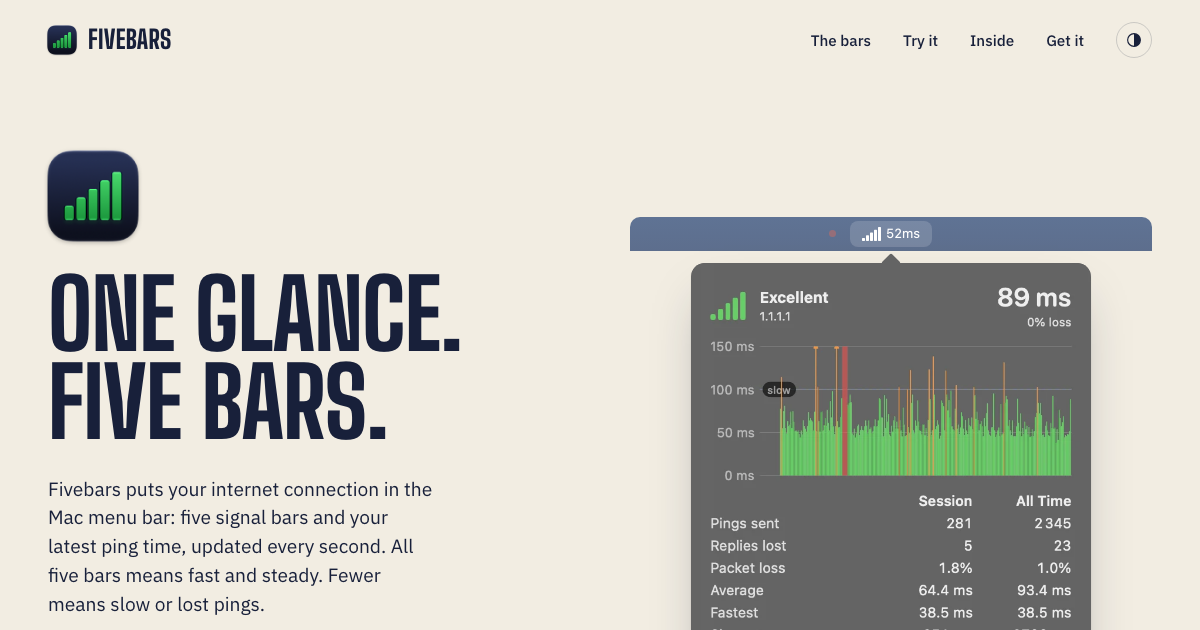
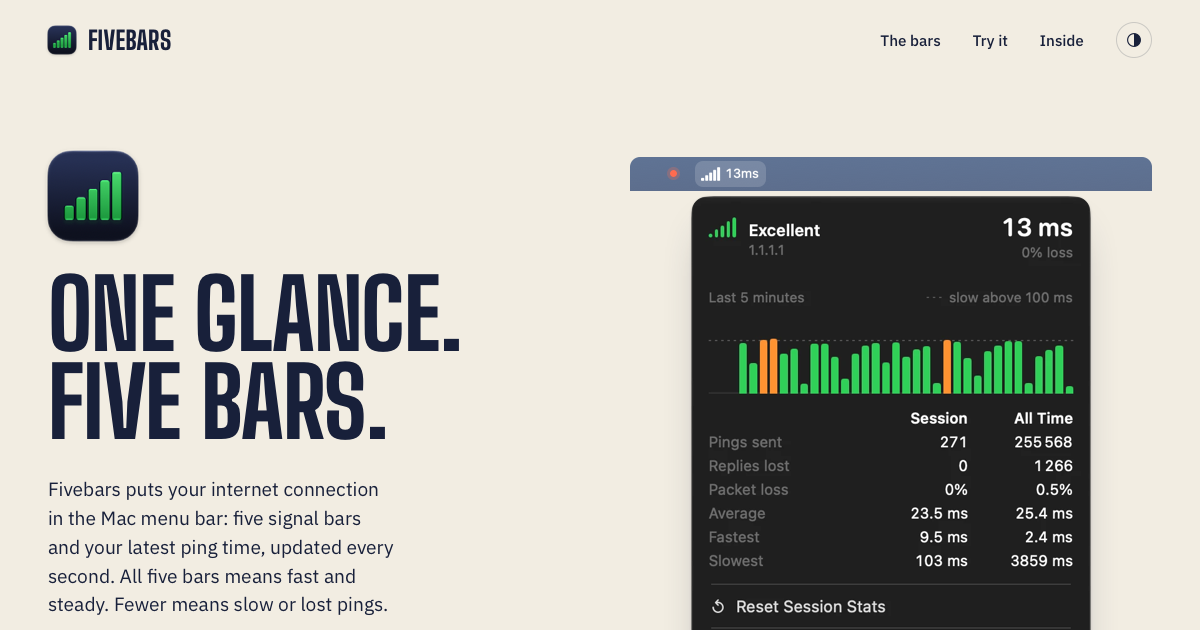
Refresh the site and README for 1.1.0

diff --git a/site/index.html b/site/index.html
@@ -1,18 +1,10 @@
 <!doctype html>
-<!--
-  PRODUCT NAME: one token.
-  The name lives in data-product-name on <html> below. assets/site.js copies it into every
-  element marked data-product, into <title>, into meta[name=description] (from its
-  data-template, where {name} is replaced) and into aria-labels marked data-product-aria.
-  The literal text in the markup is only the no-JS fallback; to rename everywhere, also run:
-    sed -i '' 's/Fivebars/NewName/g' site/index.html
--->
-<html lang="en" data-product-name="Fivebars">
+<html lang="en">
 <head>
 <meta charset="utf-8">
 <meta name="viewport" content="width=device-width, initial-scale=1">
-<title data-template="{name}: Mac menu bar ping and network monitor">Fivebars: Mac menu bar ping and network monitor</title>
-<meta name="description" content="Fivebars is a macOS menu bar network monitor. It pings once a second and shows your connection as five signal bars and your latest ping time." data-template="{name} is a macOS menu bar network monitor. It pings once a second and shows your connection as five signal bars and your latest ping time.">
+<title>Fivebars: Mac menu bar ping and network monitor</title>
+<meta name="description" content="Fivebars is a macOS menu bar network monitor. It pings once a second and shows your connection as five signal bars and your latest ping time.">
 <meta name="color-scheme" content="light dark">
 <link rel="canonical" href="https://callingcodes.com/fivebars/">
 <meta property="og:type" content="website">
@@ -67,9 +59,9 @@
 <a class="skip" href="#main">Skip to content</a>
 
 <header class="top wrap">
-  <a class="wordmark" href="#top" aria-label="Fivebars, home" data-product-aria="{name}, home">
+  <a class="wordmark" href="#top" aria-label="Fivebars, home">
     <img class="mark" src="assets/icon-64.png" srcset="assets/icon-64.png 1x, assets/icon-128.png 2x" width="36" height="36" alt="">
-    <span data-product>Fivebars</span>
+    Fivebars
   </a>
   <nav class="nav" aria-label="Primary">
     <a href="#bars">The bars</a>
@@ -86,7 +78,7 @@
   <div class="hero-copy">
     <img class="app-icon" src="assets/icon-128.png" srcset="assets/icon-128.png 1x, assets/icon-256.png 2x" width="112" height="112" alt="Fivebars app icon">
     <h1>One glance.<br>Five bars.</h1>
-    <p class="lede"><span data-product>Fivebars</span> puts your internet connection in the Mac menu bar: five signal bars and your latest ping time, updated every second. All five bars means fast and steady. Fewer means slow or lost pings.</p>
+    <p class="lede">Fivebars puts your internet connection in the Mac menu bar: five signal bars and your latest ping time, updated every second. All five bars means fast and steady. Fewer means slow or lost pings.</p>
     <p class="lineage">A&nbsp;native Mac app, about 4&nbsp;MB to download. No&nbsp;account, no&nbsp;tracking. It pings one host you choose and checks for&nbsp;updates once a&nbsp;day.</p>
     <div class="ctas">
       <a class="btn primary" href="https://callingcodes.com/fivebars/download/latest">Download</a>
@@ -98,16 +90,16 @@
     </ul>
   </div>
 
-  <figure class="stage" aria-label="Fivebars in the menu bar with its panel open" data-product-aria="{name} in the menu bar with its panel open">
+  <figure class="stage" aria-label="Fivebars in the menu bar with its menu open">
     <div class="menubar">
       <span class="tempo" aria-hidden="true"></span>
-      <span class="pill" tabindex="0" aria-describedby="pill-tip"><img src="assets/menubar.png" width="70" height="20" alt="Menu bar item: five bars and 52ms"><span class="tip" id="pill-tip" role="tooltip">Latest Ping Time: 52ms
+      <span class="pill" tabindex="0" aria-describedby="pill-tip"><img src="assets/menubar.png" width="59" height="20" alt="Menu bar item: five bars and 13ms"><span class="tip" id="pill-tip" role="tooltip">Latest Ping Time: 13ms
 Recent Packet Loss: 0%</span></span>
     </div>
     <div class="popover">
-      <img src="assets/popover.webp" width="682" height="770" alt="The Fivebars panel: five green bars, Excellent, host 1.1.1.1, 89 ms and 0% loss, then five minutes of ping times, mostly green with a few orange slow pings and one red lost ping, and statistics for this session and all time" fetchpriority="high">
+      <img src="assets/popover.webp" width="640" height="926" alt="The Fivebars menu: five green bars, Excellent, host 1.1.1.1, the latest ping time and packet loss, five minutes of ping times as green bars with a few orange slow ones, statistics for this session and all time, then Reset Session Stats, Check for Updates, Settings, About and Quit" fetchpriority="high">
     </div>
-    <figcaption>Real captures from the app. Click the bars to open this panel; hover them for a&nbsp;quick readout.</figcaption>
+    <figcaption>Real captures from the app. Click the bars to open this menu; hover them for a&nbsp;quick readout.</figcaption>
   </figure>
 </section>
 
@@ -125,7 +117,7 @@ Recent Packet Loss: 0%</span></span>
 <section class="ladder-section wrap" id="bars">
   <div class="ladder-intro">
     <h2>Read it like your phone.</h2>
-    <p>More bars, better connection. <span data-product>Fivebars</span> scores each ping from the last 30 seconds, counts the newest ones most, and turns the result into bars. One lost ping costs you a&nbsp;bar for a&nbsp;few seconds; a&nbsp;dead line shows a&nbsp;warning triangle.</p>
+    <p>More bars, better connection. Fivebars scores each ping from the last 30 seconds, counts the newest ones most, and turns the result into bars. One lost ping costs you a&nbsp;bar for a&nbsp;few seconds; a&nbsp;dead line shows a&nbsp;warning triangle.</p>
   </div>
   <ol class="ladder" aria-label="What each reading means">
     <li data-bars="5"><span class="glyph" aria-hidden="true"><i></i><i></i><i></i><i></i><i></i></span><strong>Excellent</strong><span>Fast replies, nothing missing.</span></li>
@@ -133,19 +125,19 @@ Recent Packet Loss: 0%</span></span>
     <li data-bars="3"><span class="glyph" aria-hidden="true"><i></i><i></i><i></i><i></i><i></i></span><strong>Fair</strong><span>Often slow, or dropping pings.</span></li>
     <li data-bars="2"><span class="glyph" aria-hidden="true"><i></i><i></i><i></i><i></i><i></i></span><strong>Poor</strong><span>Mostly slow, or losing pings regularly.</span></li>
     <li data-bars="1"><span class="glyph" aria-hidden="true"><i></i><i></i><i></i><i></i><i></i></span><strong>Very poor</strong><span>Barely getting through.</span></li>
-    <li data-bars="0" class="down"><span class="glyph" aria-hidden="true"><svg viewBox="0 0 20 18"><path d="M10 1.6 18.6 16.4H1.4z"/><path d="M10 6.6v4.6M10 13.4v.2" class="stroke"/></svg></span><strong>Failed</strong><span>No reply for 8 seconds. It keeps retrying, and the panel says why.</span></li>
+    <li data-bars="0" class="down"><span class="glyph" aria-hidden="true"><svg viewBox="0 0 20 18"><path d="M10 1.6 18.6 16.4H1.4z"/><path d="M10 6.6v4.6M10 13.4v.2" class="stroke"/></svg></span><strong>Failed</strong><span>No reply for 8 seconds. It keeps retrying, and the menu says why.</span></li>
   </ol>
 </section>
 
 <section class="seq-section wrap" id="sequencer">
   <div class="seq-intro">
     <h2>Thirty pings.<br>One groove.</h2>
-    <p>Here are the last 30 pings as a&nbsp;drum machine, oldest first. Click a&nbsp;key to make that ping fast, slow, crawling or lost, and the screen shows the bars <span data-product>Fivebars</span> would draw. Drag the slow ping slider to see how much your threshold forgives. Then press play and listen to your connection.</p>
+    <p>Here are the last 30 pings as a&nbsp;drum machine, oldest first. Click a&nbsp;key to make that ping fast, slow, crawling or lost, and the screen shows the bars Fivebars would draw. Drag the slow ping slider to see how much your threshold forgives. Then press play and listen to your connection.</p>
   </div>
 
   <div class="machine" aria-labelledby="machine-title">
     <div class="machine-top">
-      <p class="machine-title" id="machine-title"><span data-product>Fivebars</span> <span class="model">PS-30</span></p>
+      <p class="machine-title" id="machine-title">Fivebars <span class="model">PS-30</span></p>
       <div class="lcd" aria-live="polite">
         <svg class="lcd-bars" viewBox="0 0 75 60" aria-hidden="true"><rect x="0" y="45" width="11" height="15" rx="1.5"/><rect x="16" y="35" width="11" height="25" rx="1.5"/><rect x="32" y="25" width="11" height="35" rx="1.5"/><rect x="48" y="12" width="11" height="48" rx="1.5"/><rect x="64" y="0" width="11" height="60" rx="1.5"/></svg>
         <div class="lcd-text">
@@ -205,7 +197,7 @@ Recent Packet Loss: 0%</span></span>
     <h2>No dashboard to read.</h2>
     <div class="contrast-text">
       <p>Plenty of network monitors give you graph windows with five time ranges, a&nbsp;list of targets and a&nbsp;jitter chart. They are good at proving an outage after the fact.</p>
-      <p><span data-product>Fivebars</span> answers one question while you work: is my connection good right now? You can read the bars from across the room. The numbers are one click away when you want them.</p>
+      <p>Fivebars answers one question while you work: is my connection good right now? You can read the bars from across the room. The numbers are one click away when you want them.</p>
     </div>
   </div>
 </section>
@@ -214,31 +206,31 @@ Recent Packet Loss: 0%</span></span>
   <h2>Inside</h2>
   <div class="inside-grid">
     <figure class="shot">
-      <img src="assets/popover.webp" width="682" height="770" loading="lazy" alt="The panel: quality word, host, latest ping, a five-minute ping chart with the slow ping threshold marked, and session and all-time statistics with a Reset menu">
+      <img src="assets/popover.webp" width="640" height="926" loading="lazy" alt="The menu: quality word, host, latest ping, a five-minute ping chart with the slow ping threshold marked, session and all-time statistics, and rows for Reset Session Stats, Check for Updates, Settings, About and Quit">
       <figcaption>
-        <h3>The panel</h3>
-        <p>Click the bars for the details: the quality word, the host and its address, the last five minutes of ping times with your slow ping threshold dashed in and lost pings in red, and statistics for this session and all time.</p>
+        <h3>The menu</h3>
+        <p>Click the bars, left or&nbsp;right, for the details: the quality word, the host and its address, the last five minutes of ping times with your slow ping threshold dashed in and lost pings in&nbsp;red, and statistics for this session and all time.</p>
       </figcaption>
     </figure>
     <figure class="shot">
-      <img src="assets/settings.webp" width="880" height="970" loading="lazy" alt="The Fivebars Settings window: host to ping set to 1.1.1.1, slow ping threshold slider at 100 ms, display set to Icon and Text, switches for packet loss text, connection alerts and launch at login, and Restore Default Settings">
+      <img src="assets/settings.webp" width="880" height="1534" loading="lazy" alt="The Fivebars Settings window: host to ping set to 1.1.1.1, ping every 1 second with a stepper, slow ping threshold slider at 100 ms, display set to Icon and Text, packet loss text set to When There&rsquo;s Loss, switches for connection alerts and launch at login, and the update settings">
       <figcaption>
         <h3>Settings</h3>
-        <p>Pick the host to&nbsp;ping and how slow counts as&nbsp;slow (50&nbsp;to 2000&nbsp;ms). Show bars, ping time or&nbsp;both, add packet loss, and turn on&nbsp;connection alerts and launch at&nbsp;login. Right-click the bars to&nbsp;get here.</p>
+        <p>Pick the host to&nbsp;ping, how often (every 1&nbsp;to&nbsp;60&nbsp;seconds) and how slow counts as&nbsp;slow (50&nbsp;to 2000&nbsp;ms). Show bars, ping time or&nbsp;both, packet loss always or&nbsp;only while pings are lost, and turn on&nbsp;connection alerts and launch at&nbsp;login. Choose Settings in&nbsp;the menu to&nbsp;get here.</p>
       </figcaption>
     </figure>
     <figure class="shot shot-down">
-      <span class="failed-pill"><img src="assets/menubar-failed.png" width="67" height="20" loading="lazy" alt="Menu bar item: a warning triangle and Failed"></span>
-      <img src="assets/popover-down.webp" width="682" height="820" loading="lazy" alt="The panel when the connection is down: grey bars, Connection down, Can&rsquo;t find host, a Change Host button and a red Down where the ping time usually is">
+      <span class="failed-pill"><img src="assets/menubar-failed.png" width="60" height="20" loading="lazy" alt="Menu bar item: a warning triangle and Failed"></span>
+      <img src="assets/popover-down.webp" width="640" height="974" loading="lazy" alt="The menu when the connection is down: grey bars, Connection down, Can&rsquo;t find host nas.invalid, a red Down where the ping time usually is, and a Change Host row above the usual ones">
       <figcaption>
         <h3>When it&rsquo;s down</h3>
-        <p>The bars turn into a&nbsp;warning triangle and <code>Failed</code>. Open the panel to&nbsp;see why, here a&nbsp;host that doesn&rsquo;t exist, and fix it with Change Host.</p>
+        <p>The bars turn into a&nbsp;warning triangle and <code>Failed</code>. Open the menu to&nbsp;see why, here a&nbsp;host that doesn&rsquo;t exist, and fix it with Change Host.</p>
       </figcaption>
     </figure>
   </div>
 
   <ul class="features">
-    <li><h3>Says when it&rsquo;s down, and why</h3><p>A&nbsp;warning triangle and <code>Failed</code> when nothing comes back for 8 seconds. The panel names the cause: no network, host not found, or no replies. Optional alerts when it drops and when it&rsquo;s back.</p></li>
+    <li><h3>Says when it&rsquo;s down, and why</h3><p>A&nbsp;warning triangle and <code>Failed</code> when nothing comes back for 8 seconds. The menu names the cause: no network, host not found, or no replies. Optional alerts when it drops and when it&rsquo;s back.</p></li>
     <li><h3>Recovers on its own</h3><p>Starts again after sleep, Wi-Fi switches, VPNs, cable changes and DNS failures, without waiting for a&nbsp;timeout.</p></li>
     <li><h3>Fits your menu bar</h3><p>Matches light and dark menu bars at any scale. The ping always takes four characters, <code>48ms</code> under 100&nbsp;ms and <code>0.4s</code> from there, so the item holds still as the numbers change. Add packet loss for <code>48ms (4%)</code>.</p></li>
     <li><h3>No admin password</h3><p>Plain pings over IPv4 and IPv6, sent without root or a&nbsp;helper tool. Nothing to install but the app.</p></li>
@@ -248,7 +240,7 @@ Recent Packet Loss: 0%</span></span>
 
 <footer class="foot">
   <div class="wrap foot-row">
-    <span class="wordmark small"><svg class="mark" viewBox="0 0 30 24" aria-hidden="true"><rect x="0" y="18" width="4" height="6" rx="1"/><rect x="6.5" y="14" width="4" height="10" rx="1"/><rect x="13" y="10" width="4" height="14" rx="1"/><rect x="19.5" y="5" width="4" height="19" rx="1"/><rect x="26" y="0" width="4" height="24" rx="1"/></svg><span data-product>Fivebars</span></span>
+    <span class="wordmark small"><svg class="mark" viewBox="0 0 30 24" aria-hidden="true"><rect x="0" y="18" width="4" height="6" rx="1"/><rect x="6.5" y="14" width="4" height="10" rx="1"/><rect x="13" y="10" width="4" height="14" rx="1"/><rect x="19.5" y="5" width="4" height="19" rx="1"/><rect x="26" y="0" width="4" height="24" rx="1"/></svg>Fivebars</span>
     <nav class="foot-links" aria-label="Footer">
       <!-- Extensionless links match the canonicals: Cloudflare Workers (html_handling auto-trailing-slash) redirects support.html to support. -->
       <a href="support">Support</a>

diff --git a/site/assets/site.css b/site/assets/site.css
@@ -119,16 +119,15 @@ h1 { font: 800 clamp(3.4rem, 8.6vw, 6rem)/0.92 var(--display); text-transform: u
 .specs li { display: inline-flex; align-items: center; gap: 8px; }
 .specs li::before { content: ""; width: 6px; height: 6px; border-radius: 1px; background: var(--signal); }
 
-/* Stage: menu bar strip with the real popover hanging from it */
-/* One anchor: the stage centre. The pill sits in the middle grid column and the popover is centred, so the arrow (left: 50%) lands under the pill's middle at any width and for any item width (52ms or Failed). */
-.stage { margin: 0; position: relative; display: flex; flex-direction: column; align-items: center; }
-.menubar { width: 100%; height: 34px; border-radius: 10px 10px 0 0; background: linear-gradient(#5f7394, #5d6e8d); display: grid; grid-template-columns: minmax(0, 1fr) auto minmax(0, 1fr); align-items: center; }
+/* Stage: menu bar strip with the real menu hanging from it */
+/* The menu column is centred and as wide as the menu. Like the real one, the menu drops just below the bar with no arrow, its left edge a hair left of the item (the pill sits 4px in). */
+.stage { --menu-w: min(100%, 400px); margin: 0; position: relative; display: flex; flex-direction: column; align-items: center; }
+.menubar { width: 100%; height: 34px; border-radius: 10px 10px 0 0; background: linear-gradient(#5f7394, #5d6e8d); display: grid; grid-template-columns: minmax(0, 1fr) var(--menu-w) minmax(0, 1fr); align-items: center; }
 .tempo { justify-self: end; width: 7px; height: 7px; border-radius: 50%; background: #ff6b4f; margin-right: 14px; opacity: 0.9; }
-.pill { display: inline-flex; align-items: center; height: 26px; padding: 0 6px; border-radius: 8px; background: rgba(255, 255, 255, 0.16); }
+.pill { justify-self: start; margin-left: 4px; display: inline-flex; align-items: center; height: 26px; padding: 0 6px; border-radius: 8px; background: rgba(255, 255, 255, 0.16); }
 .pill img { width: auto; height: 20px; }
-.popover { position: relative; width: min(100%, 400px); margin-top: 12px; border-radius: 14px; box-shadow: var(--shadow); background: #646464; }
-.popover::before { content: ""; position: absolute; top: -7px; left: 50%; margin-left: -7px; width: 14px; height: 14px; background: #646464; transform: rotate(45deg); border-radius: 2px; }
-.popover img { position: relative; border-radius: 14px; }
+.popover { width: var(--menu-w); margin-top: 5px; border-radius: 17px; box-shadow: var(--shadow); }
+.popover img { border-radius: 17px; }
 .stage figcaption { align-self: stretch; margin-top: 18px; font: 400 0.8rem/1.4 var(--mono); color: var(--ink-2); text-align: right; }
 
 /* Report strip */
@@ -281,10 +280,9 @@ input[type="range"]:focus-visible::-moz-range-thumb { box-shadow: 0 0 0 4px rgba
 /* Each figure spans three shared rows (subgrid): pill row, window, caption. The pill row is sized by the Failed pill, so all three windows start on one line and all captions on the next. */
 .inside-grid { display: grid; grid-template-columns: repeat(3, minmax(0, 1fr)); grid-auto-rows: auto; column-gap: clamp(28px, 4vw, 64px); row-gap: 0; }
 .shot { margin: 0; display: grid; grid-row: span 3; grid-template-rows: subgrid; row-gap: 0; }
-.shot > img { grid-row: 2; align-self: start; justify-self: center; border-radius: 14px; box-shadow: var(--shadow); background: transparent; max-height: 620px; width: auto; margin: 0 0 24px; }
+.shot > img { grid-row: 2; align-self: start; justify-self: center; border-radius: 18px; box-shadow: var(--shadow); background: transparent; max-height: 620px; width: auto; margin: 0 0 24px; }
 .shot > figcaption { grid-row: 3; }
 .failed-pill { grid-row: 1; align-self: end; justify-self: center; position: relative; display: flex; justify-content: center; align-items: center; width: max-content; height: 30px; margin: 0 0 14px; padding: 0 10px; border-radius: 8px; background: linear-gradient(#5f7394, #5d6e8d); box-shadow: var(--shadow); }
-.failed-pill::after { content: ""; position: absolute; bottom: -6px; left: 50%; margin-left: -6px; width: 12px; height: 12px; background: #5d6e8d; transform: rotate(45deg); border-radius: 2px; }
 .failed-pill img { position: relative; z-index: 1; width: auto; height: 20px; margin: 0; box-shadow: none; border-radius: 0; background: none; }
 .shot figcaption p { color: var(--ink-2); margin: 6px 0 0; max-width: 48ch; }
 .aside { font: 400 0.8rem/1.4 var(--mono); color: var(--ink-2); margin: 28px 0 0; }
@@ -341,7 +339,7 @@ input[type="range"]:focus-visible::-moz-range-thumb { box-shadow: 0 0 0 4px rgba
 @media (max-width: 600px) {
   .app-icon { width: 80px; margin: 0 0 14px -8px; }
   .nav a { display: none; }
-  .popover { width: min(100%, 330px); }
+  .stage { --menu-w: min(100%, 330px); }
   .report-row { grid-template-columns: repeat(2, minmax(0, 1fr)); }
   .report-row div:nth-child(n) { border-left: 1px solid var(--rule); padding-left: 16px; border-top: 1px solid var(--rule); }
   .report-row div:nth-child(odd) { border-left: 0; padding-left: 0; }

diff --git a/site/assets/site.js b/site/assets/site.js
@@ -1,19 +1,6 @@
-// Product name token, theme toggle, and the 30-step ping sequencer.
+// Theme toggle and the 30-step ping sequencer.
 (function () {
   var root = document.documentElement;
-
-  // Product name: one token on <html data-product-name>. See the comment at the top of index.html.
-  var NAME = root.getAttribute("data-product-name") || "";
-  if (NAME) {
-    var titleEl = document.querySelector("title[data-template]");
-    document.title = titleEl ? titleEl.getAttribute("data-template").replace("{name}", NAME) : NAME;
-    document.querySelectorAll("[data-product]").forEach(function (el) { el.textContent = NAME; });
-    document.querySelectorAll("[data-product-aria]").forEach(function (el) {
-      el.setAttribute("aria-label", el.getAttribute("data-product-aria").replace("{name}", NAME));
-    });
-    var meta = document.querySelector('meta[name="description"][data-template]');
-    if (meta) meta.setAttribute("content", meta.getAttribute("data-template").replace("{name}", NAME));
-  }
 
   // Theme toggle, remembered per viewer.
   var toggle = document.querySelector(".theme");
@@ -440,7 +427,6 @@
 // Small touches: the app's own words when the visitor's connection drops or comes back.
 (function () {
   // Offline and back: the header mark drops to one red bar and a toast speaks like the app does.
-  var name = document.documentElement.getAttribute("data-product-name") || "Fivebars";
   var header = document.querySelector(".top");
   var pillImg = document.querySelector(".pill img");
   var tip = document.getElementById("pill-tip");
@@ -463,11 +449,11 @@
       var down = state === "down";
       pillImg.src = down ? "assets/menubar-failed.png" : "assets/menubar.png";
       pillImg.width = down ? 67 : 70;
-      pillImg.alt = down ? "Menu bar item: a warning triangle and Failed" : "Menu bar item: five bars and 52ms";
+      pillImg.alt = down ? "Menu bar item: a warning triangle and Failed" : "Menu bar item: five bars and 13ms";
     }
     if (tip) tip.textContent = state === "down" ? "No replies for 8 s" : tipText;
     if (state === "up") hideTimer = setTimeout(function () { toast.hidden = true; }, 4000);
   }
-  window.addEventListener("offline", function () { say("down", "Failed. Your browser just lost its connection. That triangle is what " + name + " shows in your menu bar when the line goes quiet."); });
+  window.addEventListener("offline", function () { say("down", "Failed. Your browser just lost its connection. That triangle is what Fivebars shows in your menu bar when the line goes quiet."); });
   window.addEventListener("online", function () { say("up", "Connection restored. You\u2019re back online."); });
 })();

diff --git a/site/support.html b/site/support.html
@@ -39,11 +39,11 @@
 <p class="email" data-email data-user="hi" data-domain="callingcodes" data-tld="com">Email <span class="email-text">hi <span class="email-sep">at</span> callingcodes <span class="email-sep">dot</span> com</span></p>
 <h2>Common questions</h2>
 <h3>Where is the app after I open it?</h3>
-<p>Fivebars has no Dock icon. Look for the five bars and a ping time in the menu bar. Click them to open the panel with the chart and statistics; right-click for a small menu with Reset Session Stats, Settings, About and Quit.</p>
+<p>Fivebars has no Dock icon. Look for the five bars and a ping time in the menu bar. Click them, with either button, to&nbsp;open the menu: the chart and statistics on&nbsp;top, then Reset Session Stats, Check for Updates, Settings, About and&nbsp;Quit.</p>
 <h3>What do the bars mean?</h3>
 <p>They score your last 30 pings, counting the newest most. Five bars (Excellent) means fast replies and nothing lost; four is Good, three Fair, two Poor, one Very poor. A ping counts as slow above your slow ping threshold, 100&nbsp;ms by default; change it in Settings.</p>
 <h3>The bars show a warning triangle and "Failed".</h3>
-<p>No reply arrived for 8 seconds (the 4 second ping timeout plus 4 seconds), or the host could not be looked up. Click the triangle: the panel says why (no network connection, host not found, or no replies) and offers Change Host. Fivebars keeps retrying, and starts again by itself after sleep, Wi-Fi changes, VPNs and DNS failures. If the cause is the host, check that it answers pings.</p>
+<p>No reply arrived for 8 seconds (the 4 second ping timeout plus 4 seconds), or the host could not be looked up. Click the triangle: the menu says why (no network connection, host not found, or no replies) and offers Change Host. Fivebars keeps retrying, and starts again by itself after sleep, Wi-Fi changes, VPNs and DNS failures. If the cause is the host, check that it answers pings.</p>
 <h3>I don't get Connection Up/Down alerts.</h3>
 <p>Turn on Connection Up/Down Alerts in Settings and allow notifications when asked. If you declined, re-enable them in System Settings &gt; Notifications &gt; Fivebars.</p>
 <h3>macOS won't open the app on another Mac.</h3>

diff --git a/README.md b/README.md
@@ -1,11 +1,11 @@
 # Fivebars
 
 Fivebars puts your internet connection in the Mac menu bar: five signal bars and your latest
-ping time, updated every second. All five bars means fast and steady; fewer means slow or lost
+ping time, updated every second by default. All five bars means fast and steady; fewer means slow or lost
 pings. A native Swift app for Apple silicon Macs running macOS 14 or later. No account, no
 tracking: it pings one host you choose and checks for updates once a day.
 
-<p align="center"><img src="site/assets/popover.webp" width="420" alt="The Fivebars panel under the menu bar item: quality word, host, a five-minute latency chart and statistics"></p>
+<p align="center"><img src="site/assets/popover.webp" width="420" alt="The Fivebars menu under the menu bar item: quality word, host, a five-minute latency chart and statistics"></p>
 
 - **Download**: <https://callingcodes.com/fivebars/download/latest> (notarized DMG; the app
   then updates itself through Sparkle)
@@ -22,12 +22,13 @@ tracking: it pings one host you choose and checks for updates once a day.
   connection is down. The item keeps one fixed width for the current display settings, so
   the icons next to it never shift.
 - Tooltip: latest ping time and recent packet loss.
-- Left click opens a popover: quality word (Excellent / Good / Fair / Poor / Very poor), host and
-  resolved address, a 5-minute latency chart (lost pings marked in red, dashed line at the slow
-  ping threshold), and Session vs All Time statistics (pings sent, replies lost, packet loss,
-  average / fastest / slowest), with reset actions.
-- Right click opens a small menu: the current status, Reset Session Stats, Settings, About,
-  Check for Updates…, Quit.
+- Click the item (left or right click) to open its menu, on the system menu material: quality word
+  (Excellent / Good / Fair / Poor / Very poor), host and resolved address, a live 5-minute latency
+  chart (one bar per few seconds, orange when slow, red when a ping was lost or very slow), and
+  Session vs All Time statistics (pings sent, replies lost, packet loss, average / fastest /
+  slowest). Below them: Change Host… (when the connection is down), Reset Session Stats (hold
+  Option for Reset All Time Stats…), Check for Updates…, Settings… (⌘,), About Fivebars and
+  Quit Fivebars (⌘Q).
 - Software updates through Sparkle 2: a daily check, and you are asked before anything is
   installed (automatic installs can be turned on in Settings).
 - Optional "Connection down" / "Connection restored" notifications.
@@ -38,7 +39,10 @@ tracking: it pings one host you choose and checks for updates once a day.
 
 ## How quality is measured
 
-- One ICMP echo per second to the configured host. Pings from the last 30 s form the window.
+- One ICMP echo per second (by default; see Ping Every in Settings) to the configured host. Pings from the
+  last 30 s form the window; at slower intervals the window is max(30 s, 10 pings x interval), so it
+  always holds at least 10 pings, and the 1.2x recency weighting stays per ping. Failed comes after
+  timeout + max(2, min(4, 60 s worth of)) missed pings: 8 s at 1 s, 24 s at 5 s, 124 s at 60 s.
 - Each ping gets a score:
   - round-trip time at or below the **slow ping threshold** (default 100 ms): 1;
   - between the threshold and threshold + 900 ms: falls linearly from 1 to 0, and keeps
@@ -89,7 +93,8 @@ to maintain. `VERSION=0.9.0 scripts/build-app.sh` builds another version without
 
 ## Settings
 
-Settings window: host to ping (applied on Return or when the field loses focus), slow ping
+Settings window: host to ping (applied on Return or when the field loses focus), ping every
+(1 to 60 s in whole seconds, field plus stepper, default 1 s, applied at once; slower means less traffic and battery), slow ping
 threshold (50 to 2000 ms, step 10), display (Icon and Text / Icon Only / Text Only), packet loss
 text, connection alerts, launch at login, check for updates automatically, install updates
 automatically, Last Checked with Check Now, Restore Default Settings.
@@ -143,7 +148,7 @@ Releases are notarized, signed for Sparkle and served from callingcodes.com by
 - Restarts pinging on network path changes and after wake, instead of waiting for the watchdog.
 - Bars are drawn as template images, so they match light/dark menu bars and any scale.
 - Launch at login uses `SMAppService` and works from any location.
-- Shows DNS / socket errors in the popover and settings.
+- Shows DNS / socket errors in the menu and settings.
 
 ## Project layout
 
@@ -165,7 +170,7 @@ Sources/Fivebars/                 the app
   Preferences.swift               UserDefaults-backed settings
   Presentation.swift              shared wording and colours for the UI
   StatusItemController.swift      menu bar item, icon drawing, context menu
-  PanelView.swift                 popover (chart, stats)
+  StatusMenuView.swift            menu header (chart, stats)
   SettingsView.swift              settings window
 Tests/FivebarsCoreTests/          Swift Testing tests
   FivebarsCoreTests.swift         scoring, stats, ICMP packets, ledger, address selection

diff --git a/docs/RELEASING.md b/docs/RELEASING.md
@@ -51,7 +51,7 @@ scripts/release.sh 0.9.0 --adhoc --download-base http://127.0.0.1:8765/0.9.0
 scripts/release.sh 0.9.1 --adhoc --download-base http://127.0.0.1:8765/0.9.1
 (cd build/release && python3 -m http.server 8765 --bind 127.0.0.1) &
 defaults write com.callingcodes.fivebars SUFeedURL http://127.0.0.1:8765/appcast.xml
-open build/release/0.9.0/Fivebars.app      # then Check for Updates… (right-click menu)
+open build/release/0.9.0/Fivebars.app      # then Check for Updates… (in the menu)
 defaults delete com.callingcodes.fivebars SUFeedURL   # afterwards
 ```
 
